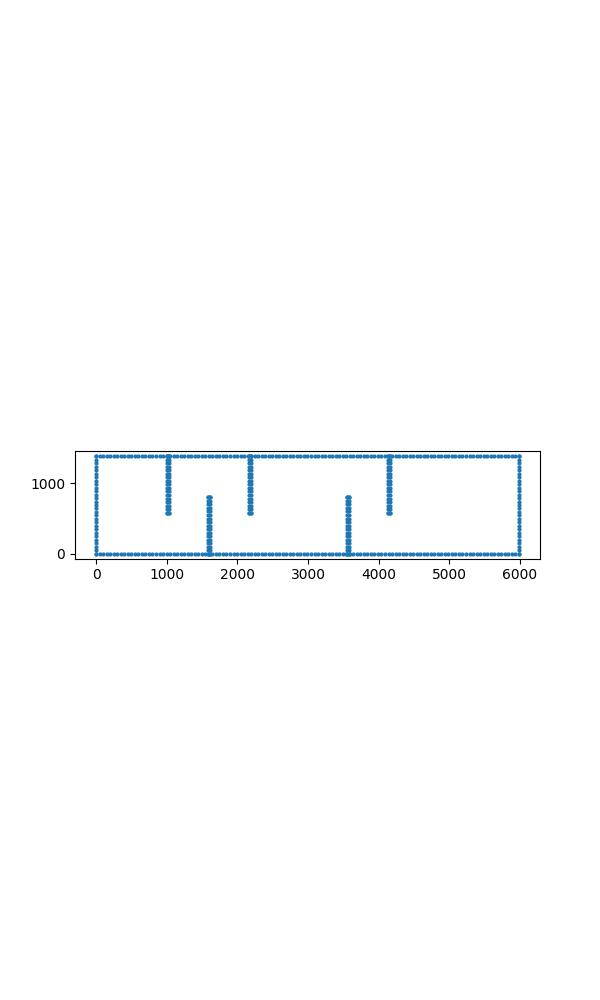
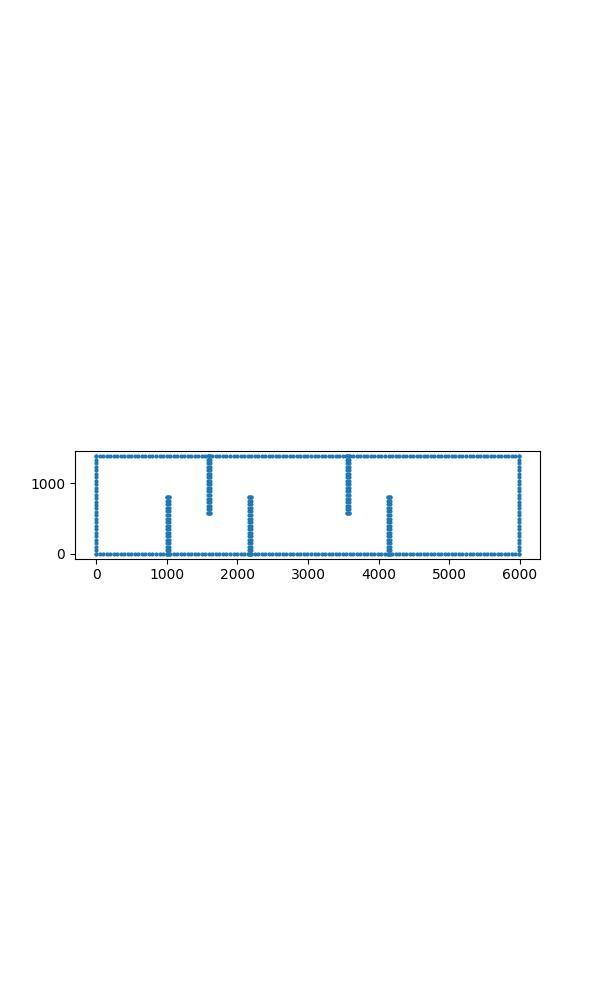
.

diff --git a/py/fieldmaking.py b/py/fieldmaking.py
@@ -21,11 +21,11 @@ branch = 801
 acc_x = 0
 reclist = [
     [acc_x := acc_x + 0, 0, width, height],
-    [acc_x := acc_x + 1000 + wd, height, -wd, -branch],
+    [acc_x := acc_x + 1000 + wd, 0, -wd, branch],
+    [acc_x := acc_x + 550 + wd, height, -wd, -branch],
     [acc_x := acc_x + 550 + wd, 0, -wd, branch],
-    [acc_x := acc_x + 550 + wd, height, -wd, -branch],
-    [acc_x := acc_x + 1351 + wd, 0, -wd, branch],
-    [acc_x := acc_x + 550 + wd, height, -wd, -branch],
+    [acc_x := acc_x + 1351 + wd, height, -wd, -branch],
+    [acc_x := acc_x + 550 + wd, 0, -wd, branch],
 ]
 
 linesgroup = []
